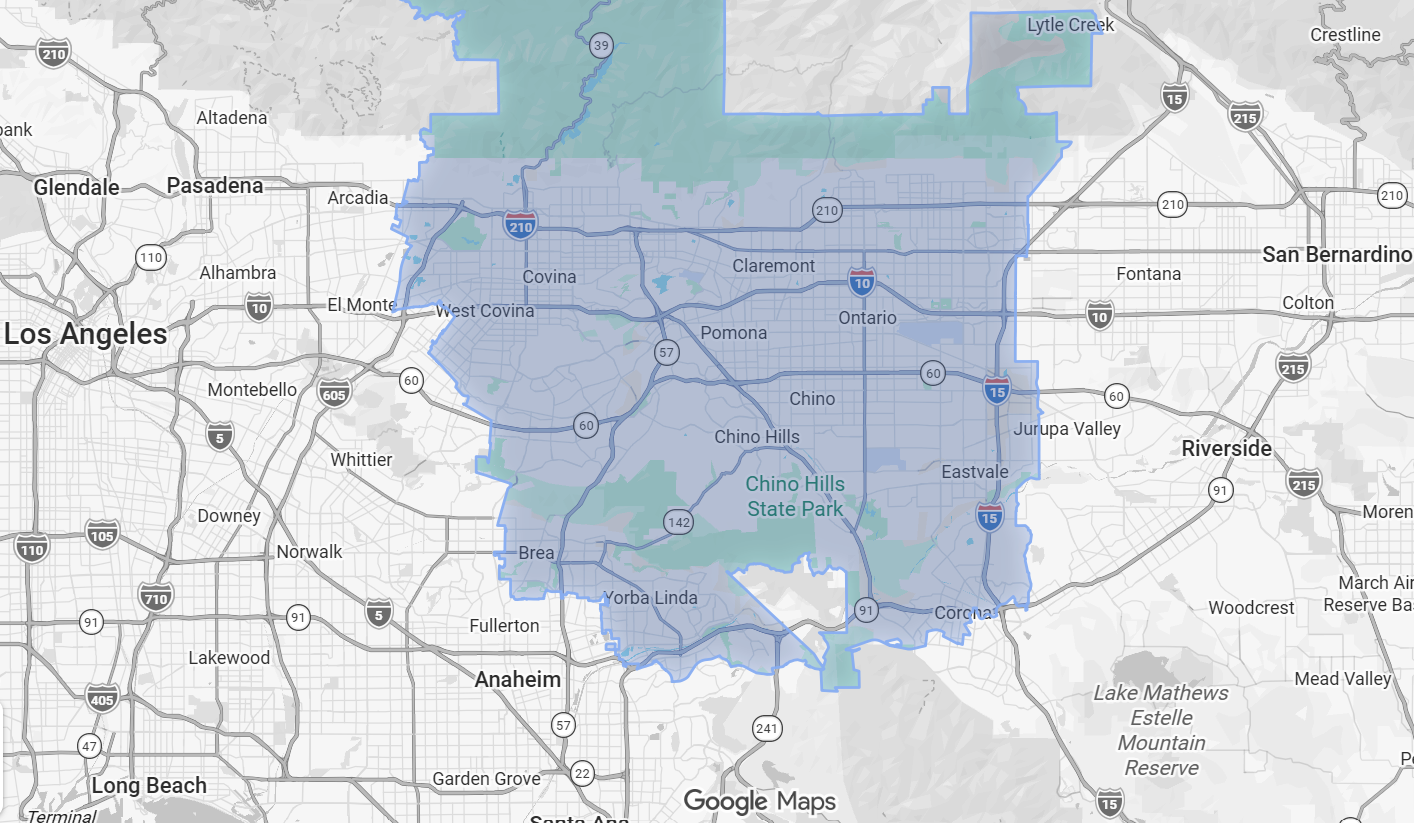
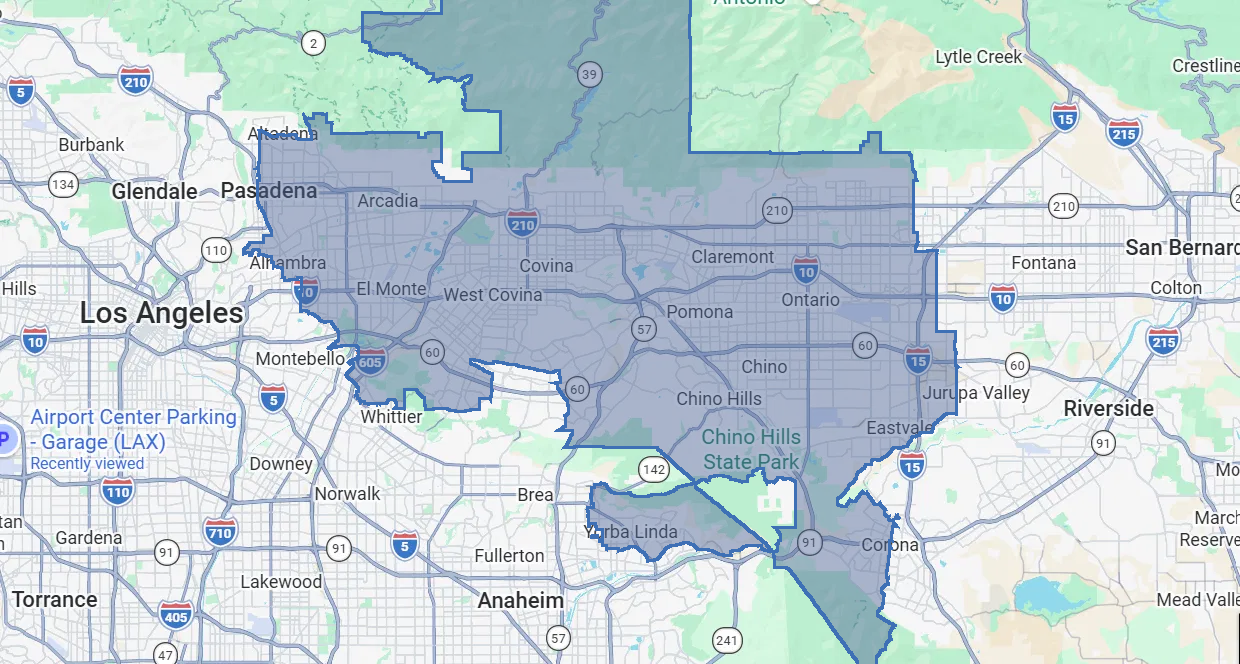
Expand commercial service area map to San Gabriel Valley + Upland/RC
Replace the service-area map with an updated version covering the new
target ZIPs (Pasadena/Arcadia/El Monte/Rancho Cucamonga/Upland, etc.)
using exact ZCTA boundaries while keeping the current east/south border.
Update ServiceAreaMap width/height to the new 1240x664 native ratio so
the responsive image isn't vertically stretched.

diff --git a/components/seo/ServiceAreaMap.tsx b/components/seo/ServiceAreaMap.tsx
@@ -23,8 +23,8 @@ export default function ServiceAreaMap({
       <Image
         src="/images/service-area-map.png"
         alt={t("seo_map_alt")}
-        width={900}
-        height={560}
+        width={1240}
+        height={664}
         className="w-full rounded"
         loading="lazy"
       />